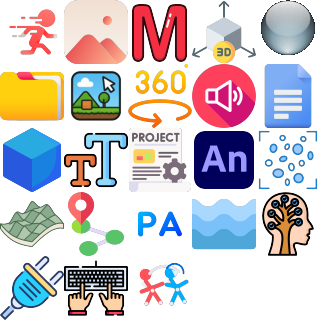
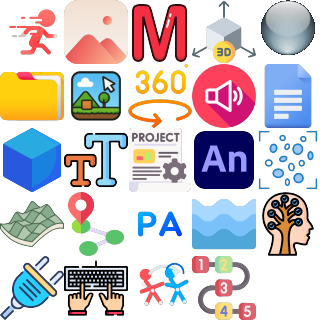
add

Changed region(s): [[0.5938, 0.7812, 0.8125, 1.0]]

diff --git a/resources/editor/contentBrowser/create_atlas.py b/resources/editor/contentBrowser/create_atlas.py
@@ -60,7 +60,8 @@ ICON_FILES = {
     19: "ai-tree",              # physics animation
     20: "plugin",              # physics animation
     21: "input",             # physics animation
-    22: "animation-retarget"             # physics animation
+    22: "animation-retarget",             # physics animation
+    23: "VFXSequence",             # physics animation
 }
 
 def find_icon_file(base_name):
